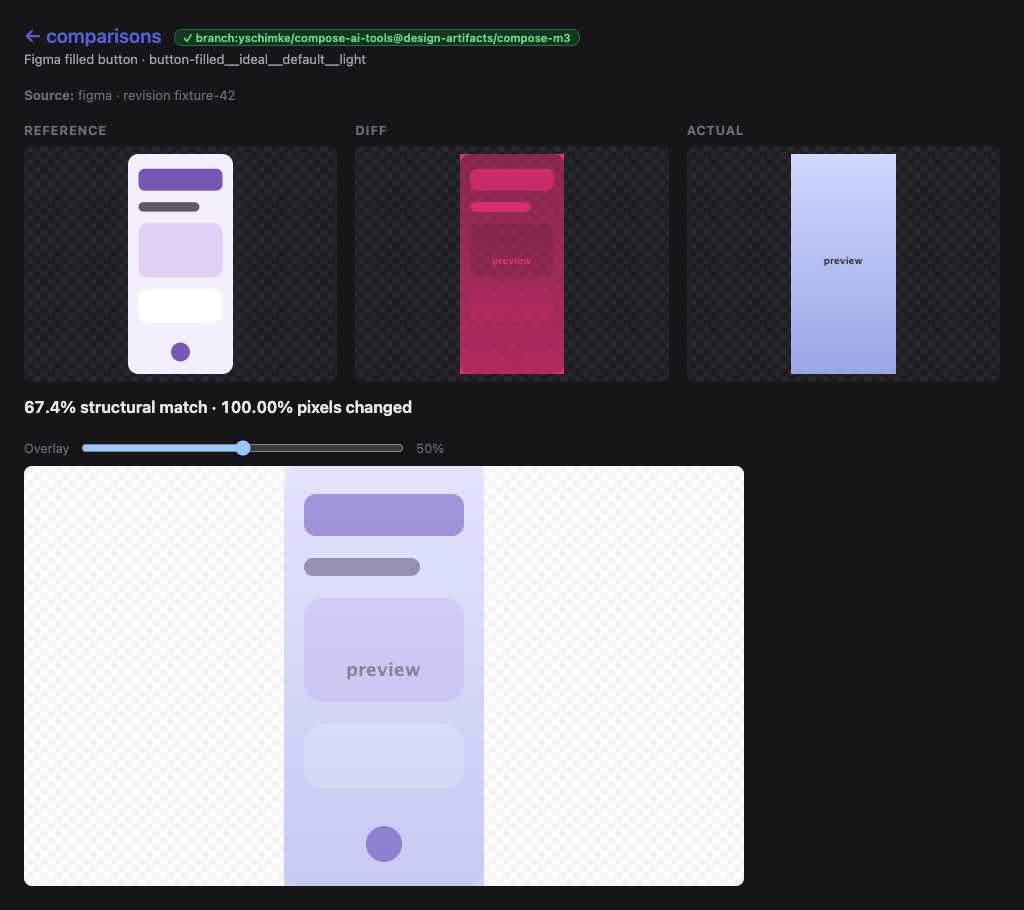
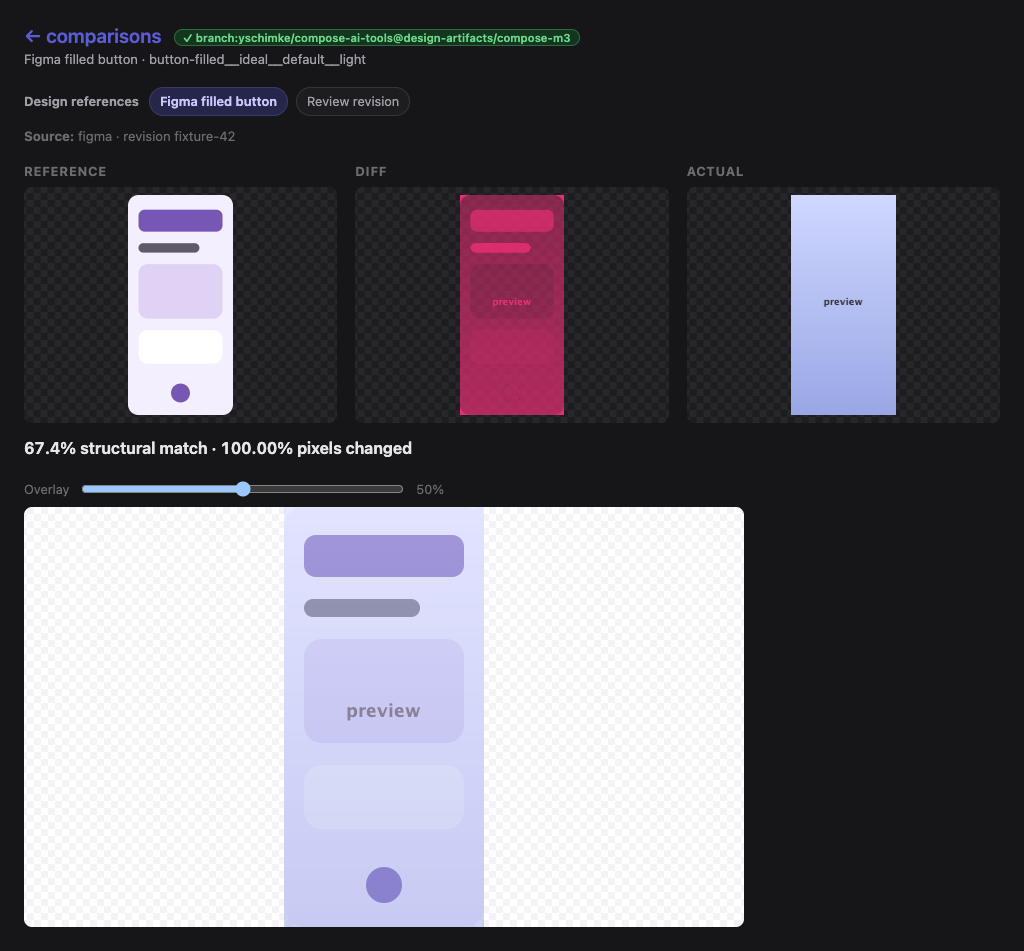
fix(serve): complete design reference support

diff --git a/vscode-extension/preview-harness/fixtures/pages/serve-reference-compare.html b/vscode-extension/preview-harness/fixtures/pages/serve-reference-compare.html
@@ -4,26 +4,31 @@
         <meta charset="utf-8">
         <meta name="viewport" content="width=device-width, initial-scale=1">
         <title>Figma filled button — design comparison</title>
-        <link rel="stylesheet" href="/assets/serve/a27b-6cd3e6715f2b4b40/serve.css">
+        <link rel="stylesheet" href="/assets/serve/a5e8-3fa78bf7c43ab640/serve.css">
         <!-- Apply the sticky Background/Transparent choice before first paint (no checkerboard flash). -->
         <script>try{if(localStorage.getItem("cp-bg")==="off")document.documentElement.classList.add("cp-bg-transparent");}catch(e){}</script>
       </head>
       <body>
         <main class="cp-main">
-        <div id="cp-reference-compare" data-reference="/reference/design-button-filled-light.png?session=compose-m3" data-actual="/render/button-filled__ideal__default__light.png?session=compose-m3">
-  <h1 class="cp-head"><a href="/compare?session=compose-m3">← comparisons</a> <span class="cp-badge cp-badge--trusted" title="producer trust: branch:yschimke/compose-ai-tools@design-artifacts/compose-m3">✓ branch:yschimke/compose-ai-tools@design-artifacts/compose-m3</span></h1>
-  <p class="cp-sub">Figma filled button · button-filled__ideal__default__light</p>
-  <div class="cp-reference-meta"><strong>Source:</strong> figma · revision fixture-42</div>
-  <div class="cp-reference-grid">
-    <section><h2>Reference</h2><div class="cp-compare-shot"><img src="/reference/design-button-filled-light.png?session=compose-m3" alt="Design reference"></div></section>
-    <section><h2>Diff</h2><div class="cp-compare-shot"><canvas class="cp-reference-diff" aria-label="Highlighted pixel difference"></canvas></div></section>
-    <section><h2>Actual</h2><div class="cp-compare-shot"><img src="/render/button-filled__ideal__default__light.png?session=compose-m3" alt="Actual Compose preview"></div></section>
-  </div>
-  <p class="cp-reference-result" role="status">comparing…</p>
-  <label class="cp-overlay-control">Overlay <input class="cp-overlay-range" type="range" min="0" max="100" value="50"><span>50%</span></label>
-  <div class="cp-reference-overlay"><img src="/reference/design-button-filled-light.png?session=compose-m3" alt=""><img src="/render/button-filled__ideal__default__light.png?session=compose-m3" alt=""></div>
-</div>
-<script src="/assets/serve/4ebf-c87fcc6525666985/format-compare.js"></script>
+                <div id="cp-reference-compare" data-reference="/reference/design-button-filled-light.png?session=compose-m3" data-actual="/render/button-filled__ideal__default__light.png?session=compose-m3">
+          <h1 class="cp-head"><a href="/compare?session=compose-m3">← comparisons</a> <span class="cp-badge cp-badge--trusted" title="producer trust: branch:yschimke/compose-ai-tools@design-artifacts/compose-m3">✓ branch:yschimke/compose-ai-tools@design-artifacts/compose-m3</span></h1>
+          <p class="cp-sub">Figma filled button · button-filled__ideal__default__light</p>
+                  <nav class="cp-reference-picker" aria-label="Design references">
+          <span>Design references</span>
+          <a class="cp-reference-choice" href="/compare/button-filled__ideal__default__light?session=compose-m3&amp;reference=design-button-filled-light" aria-current="page">Figma filled button</a>
+<a class="cp-reference-choice" href="/compare/button-filled__ideal__default__light?session=compose-m3&amp;reference=design-button-filled-review">Review revision</a>
+        </nav>
+          <div class="cp-reference-meta"><strong>Source:</strong> figma · revision fixture-42</div>
+          <div class="cp-reference-grid">
+            <section><h2>Reference</h2><div class="cp-compare-shot"><img src="/reference/design-button-filled-light.png?session=compose-m3" alt="Design reference"></div></section>
+            <section><h2>Diff</h2><div class="cp-compare-shot"><canvas class="cp-reference-diff" aria-label="Highlighted pixel difference"></canvas></div></section>
+            <section><h2>Actual</h2><div class="cp-compare-shot"><img src="/render/button-filled__ideal__default__light.png?session=compose-m3" alt="Actual Compose preview"></div></section>
+          </div>
+          <p class="cp-reference-result" role="status">comparing…</p>
+          <label class="cp-overlay-control">Overlay <input class="cp-overlay-range" type="range" min="0" max="100" value="50"><span>50%</span></label>
+          <div class="cp-reference-overlay"><img src="/reference/design-button-filled-light.png?session=compose-m3" alt=""><img src="/render/button-filled__ideal__default__light.png?session=compose-m3" alt=""></div>
+        </div>
+        <script src="/assets/serve/4ebf-c87fcc6525666985/format-compare.js"></script>
         </main>
       </body>
     </html>

diff --git a/cli/src/test/kotlin/ee/schimke/composeai/cli/serve/ServeWebFixtureTest.kt b/cli/src/test/kotlin/ee/schimke/composeai/cli/serve/ServeWebFixtureTest.kt
@@ -682,24 +682,35 @@ class ServeWebFixtureTest {
           else emptyList()
         },
       )
+    val comparisonReferences =
+      listOf(
+        DesignReference(
+          id = "design-button-filled-light",
+          previewId = themedPreviews.first().id,
+          label = "Figma filled button",
+          raster = DesignReferenceRaster("references/design-button-filled-light.png", 320, 160),
+          source =
+            DesignReferenceSource(
+              provider = "figma",
+              uri = "https://www.figma.com/file/example",
+              revision = "fixture-42",
+              attributes = mapOf("nodeId" to "12:34"),
+            ),
+        ),
+        DesignReference(
+          id = "design-button-filled-review",
+          previewId = themedPreviews.first().id,
+          label = "Review revision",
+          raster = DesignReferenceRaster("references/design-button-filled-review.png", 320, 160),
+          source = DesignReferenceSource(provider = "penpot", revision = "fixture-43"),
+        ),
+      )
     val referenceComparison =
       ServeWeb.referenceComparisonPage(
         moduleLabel = "compose-m3",
         preview = themedPreviews.first(),
-        reference =
-          DesignReference(
-            id = "design-button-filled-light",
-            previewId = themedPreviews.first().id,
-            label = "Figma filled button",
-            raster = DesignReferenceRaster("references/design-button-filled-light.png", 320, 160),
-            source =
-              DesignReferenceSource(
-                provider = "figma",
-                uri = "https://www.figma.com/file/example",
-                revision = "fixture-42",
-                attributes = mapOf("nodeId" to "12:34"),
-              ),
-          ),
+        reference = comparisonReferences.first(),
+        references = comparisonReferences,
         token = token,
         sessionId = "compose-m3",
         trust = "branch:yschimke/compose-ai-tools@design-artifacts/compose-m3",
@@ -1162,7 +1173,9 @@ class ServeWebFixtureTest {
       referenceComparison.contains(">Reference</h2>") &&
         referenceComparison.contains(">Diff</h2>") &&
         referenceComparison.contains(">Actual</h2>") &&
-        referenceComparison.contains("Source:</strong> figma · revision fixture-42"),
+        referenceComparison.contains("Source:</strong> figma · revision fixture-42") &&
+        referenceComparison.contains("aria-label=\"Design references\"") &&
+        referenceComparison.contains(">Review revision</a>"),
       "the focused comparison presents the handoff triptych and provenance",
     )
     val referencedState =

diff --git a/cli/src/main/kotlin/ee/schimke/composeai/cli/serve/ServeWeb.kt b/cli/src/main/kotlin/ee/schimke/composeai/cli/serve/ServeWeb.kt
@@ -3063,6 +3063,7 @@ object ServeWeb {
     moduleLabel: String,
     preview: ServePreview,
     reference: DesignReference,
+    references: List<DesignReference> = listOf(reference),
     token: String,
     sessionId: String? = null,
     basePath: String = "",
@@ -3079,6 +3080,35 @@ object ServeWeb {
         ?.takeIf { it.isNotBlank() }
         ?.let { " · revision ${WebEscaping.htmlEscape(it)}" }
         .orEmpty()
+    val referenceChoices = (references + reference).distinctBy { it.id }
+    val referencePicker =
+      if (referenceChoices.size <= 1) ""
+      else {
+        val baseQuery = linkQuery(token, sessionId, basePath, isPublic)
+        val links =
+          referenceChoices.joinToString("\n") { choice ->
+            val query =
+              listOf(
+                  baseQuery.takeIf { it.isNotEmpty() },
+                  "reference=${WebEscaping.urlEncodeSegment(choice.id)}",
+                )
+                .filterNotNull()
+                .joinToString("&")
+            val href =
+              WebEscaping.htmlEscape(
+                "$basePath/compare/${WebEscaping.urlEncodeSegment(preview.id)}?${query}"
+              )
+            val current = if (choice.id == reference.id) " aria-current=\"page\"" else ""
+            "<a class=\"cp-reference-choice\" href=\"$href\"$current>${WebEscaping.htmlEscape(choice.label)}</a>"
+          }
+        """
+        <nav class="cp-reference-picker" aria-label="Design references">
+          <span>Design references</span>
+          $links
+        </nav>
+        """
+          .trimIndent()
+      }
     return document(
       title = "${reference.label} — design comparison",
       unfurlTitle = "$moduleLabel design comparison",
@@ -3089,6 +3119,7 @@ object ServeWeb {
         <div id="cp-reference-compare" data-reference="$raster" data-actual="$actual">
           <h1 class="cp-head"><a href="$basePath/compare$q">← comparisons</a>${trustBadge(trust)}</h1>
           <p class="cp-sub">${WebEscaping.htmlEscape(reference.label)} · ${WebEscaping.htmlEscape(preview.id)}</p>
+          $referencePicker
           <div class="cp-reference-meta"><strong>Source:</strong> $source$revision</div>
           <div class="cp-reference-grid">
             <section><h2>Reference</h2><div class="cp-compare-shot"><img src="$raster" alt="Design reference"></div></section>

diff --git a/cli/src/main/resources/ee/schimke/composeai/cli/serve/assets/serve.css b/cli/src/main/resources/ee/schimke/composeai/cli/serve/assets/serve.css
@@ -376,6 +376,14 @@ html:not(.cp-bg-transparent) .cp-viewer[data-bg-theme="light"] .cp-stage { backg
 #cp-compare[data-format="reference"] .cp-compare-target-head::after { content: "Design reference"; }
 #cp-compare[data-format="reference"] .cp-compare-vector { cursor: pointer; }
 .cp-reference-meta { margin: 12px 0 20px; color: #6b6b70; font-size: 0.82rem; }
+.cp-reference-picker { display: flex; flex-wrap: wrap; align-items: center; gap: 8px;
+  margin: 14px 0 10px; color: #6b6b70; font-size: 0.8rem; }
+.cp-reference-picker > span { margin-right: 2px; font-weight: 650; }
+.cp-reference-choice { padding: 6px 10px; border: 1px solid #d7d7de; border-radius: 999px;
+  background: #fff; color: #50505a; text-decoration: none; }
+.cp-reference-choice:hover { border-color: #aaaadb; color: #3a3a8a; }
+.cp-reference-choice[aria-current="page"] { background: #ececff; border-color: #c5c5f0;
+  color: #3a3a8a; font-weight: 600; }
 .cp-reference-grid { display: grid; grid-template-columns: repeat(3, minmax(0, 1fr)); gap: 18px; }
 .cp-reference-grid section h2 { margin: 0 0 8px; font-size: 0.8rem; color: #6b6b70;
   text-transform: uppercase; letter-spacing: 0.06em; }
@@ -465,6 +473,11 @@ html:not(.cp-bg-transparent) .cp-viewer[data-bg-theme="light"] .cp-stage { backg
   .cp-state-btn { background: #1d1d20; color: #a0a0a8; border-color: #34343a; }
   .cp-state-btn:hover { border-color: #4a4a55; color: #c9c9ff; }
   .cp-state-btn[aria-current="page"] { background: #26264a; border-color: #3a3a6a; color: #c9c9ff; }
+  .cp-reference-picker { color: #a0a0a8; }
+  .cp-reference-choice { background: #1d1d20; border-color: #34343a; color: #a0a0a8; }
+  .cp-reference-choice:hover { border-color: #4a4a55; color: #c9c9ff; }
+  .cp-reference-choice[aria-current="page"] { background: #26264a; border-color: #3a3a6a;
+    color: #c9c9ff; }
   .cp-note { background: #26262b; color: #a0a0a8; }
   .cp-drop { background: #1d1d20; border-color: #34343a; }
   .cp-drop:hover, .cp-drop.cp-drop-over { border-color: #6a6ad0; background: #22222c; }

diff --git a/cli/src/test/kotlin/ee/schimke/composeai/cli/serve/ServeCatalogStoreTest.kt b/cli/src/test/kotlin/ee/schimke/composeai/cli/serve/ServeCatalogStoreTest.kt
@@ -95,7 +95,7 @@ class ServeCatalogStoreTest {
   }
 
   @Test
-  fun `catalog imports only canonical design rasters and keeps source URLs inert`() {
+  fun `catalog imports the published reference manifest and keeps source URLs inert`() {
     val root = tempRoot()
     val referencePng = png()
     val requested = mutableListOf<String>()
@@ -103,8 +103,12 @@ class ServeCatalogStoreTest {
       """
       {"schema":"design-parity-catalog/v1","system":"compose-m3",
        "components":[{"componentId":"Button/Filled","images":[
-         {"path":"images/button.png"}]}],
-       "references":[{
+         {"path":"images/button.png"}]}]}
+      """
+        .trimIndent()
+    val manifest =
+      """
+      {"schema":"compose-preview-references/v1","references":[{
          "id":"button-figma","previewId":"button","label":"Figma button",
          "raster":{"path":"design-references/button.png","width":2,"height":2},
          "source":{"provider":"figma","uri":"https://api.figma.com/v1/files/private"},
@@ -116,6 +120,7 @@ class ServeCatalogStoreTest {
       requested += url
       when {
         url.endsWith("/${ServeCatalogStore.CATALOG_FILE}") -> catalog.encodeToByteArray()
+        url.endsWith("/references/index.json") -> manifest.encodeToByteArray()
         url.endsWith("/design-references/button.png") -> referencePng
         url.endsWith("/images/button.png") -> png()
         else -> null
@@ -136,6 +141,7 @@ class ServeCatalogStoreTest {
     assertEquals("figma", reference.source.provider)
     assertEquals("https://api.figma.com/v1/files/private", reference.source.uri)
     assertContentEquals(referencePng, host.designReferenceRaster("button-figma"))
+    assertTrue(requested.any { it.endsWith("/references/index.json") })
     assertFalse(requested.any { it.startsWith("https://api.figma.com") })
     assertFalse(requested.any { it.endsWith("mocks/button.html") })
   }

diff --git a/cli/src/main/kotlin/ee/schimke/composeai/cli/serve/ServeCatalogStore.kt b/cli/src/main/kotlin/ee/schimke/composeai/cli/serve/ServeCatalogStore.kt
@@ -343,7 +343,8 @@ class ServeCatalogStore(
     // and retain the source fields as provenance. In particular, source.uri and artifact.path are
     // never fetched here: an HTML/Figma reference cannot turn catalog refresh into code execution
     // or an authenticated remote request.
-    writeDesignReferences(catalog.references, base, staging)
+    val manifestReferences = fetchDesignReferences(base)
+    writeDesignReferences(manifestReferences + catalog.references, base, staging)
 
     // The staged catalog is usable — atomically replace the live dir with it. The delete + rename
     // is near-instant (same filesystem), so the window where `dir` is absent is microseconds, not
@@ -1016,6 +1017,27 @@ class ServeCatalogStore(
           DesignReferenceManifest(references = accepted),
         )
       )
+  }
+
+  /**
+   * Read the published provider-neutral manifest. Catalogs originally carried references inline in
+   * `catalog.json`, so [Catalog.references] remains a compatibility fallback at the call site.
+   */
+  private fun fetchDesignReferences(base: String): List<DesignReference> {
+    val manifestBytes =
+      runCatching {
+          fetchCatalogAsset(
+            "$base${ServeDesignReferenceStore.DIRECTORY}/${ServeDesignReferenceStore.INDEX_FILE}"
+          )
+        }
+        .getOrNull() ?: return emptyList()
+    return runCatching {
+        json.decodeFromString(DesignReferenceManifest.serializer(), manifestBytes.decodeToString())
+      }
+      .getOrNull()
+      ?.takeIf { it.schema == DesignReferenceManifest.SCHEMA }
+      ?.references
+      .orEmpty()
   }
 
   /**

diff --git a/cli/src/test/kotlin/ee/schimke/composeai/cli/serve/ServeHttpRoutingTest.kt b/cli/src/test/kotlin/ee/schimke/composeai/cli/serve/ServeHttpRoutingTest.kt
@@ -96,7 +96,15 @@ class ServeHttpRoutingTest {
                     raster =
                       DesignReferenceRaster("references/red-design.png", width = 2, height = 2),
                     source = DesignReferenceSource(provider = "figma", revision = "7"),
-                  )
+                  ),
+                  DesignReference(
+                    id = "red-design-review",
+                    previewId = previewId,
+                    label = "Red design review",
+                    raster =
+                      DesignReferenceRaster("references/red-design.png", width = 2, height = 2),
+                    source = DesignReferenceSource(provider = "penpot", revision = "8"),
+                  ),
                 )
             ),
           )
@@ -929,6 +937,15 @@ class ServeHttpRoutingTest {
     assertTrue(page.contains(">Diff</h2>"), "diff lane: $page")
     assertTrue(page.contains(">Actual</h2>"), "actual lane: $page")
     assertTrue(page.contains("Source:</strong> figma · revision 7"), "provenance: $page")
+    assertTrue(page.contains(">Red design review</a>"), "reference selector: $page")
+    assertTrue(
+      page.contains("reference=red-design-review"),
+      "selector links every reference for the preview: $page",
+    )
+
+    val (reviewCode, reviewPage) = get("/compose-m3/compare/$previewId?reference=red-design-review")
+    assertEquals(200, reviewCode)
+    assertTrue(reviewPage.contains("Source:</strong> penpot · revision 8"), reviewPage)
 
     val request =
       Request.Builder()

diff --git a/vscode-extension/preview-harness/fixtures/pages/serve-viewer-states.html b/vscode-extension/preview-harness/fixtures/pages/serve-viewer-states.html
@@ -4,7 +4,7 @@
         <meta charset="utf-8">
         <meta name="viewport" content="width=device-width, initial-scale=1">
         <title>Checkbox · Checked (light) — compose-preview</title>
-        <link rel="stylesheet" href="/assets/serve/a27b-6cd3e6715f2b4b40/serve.css">
+        <link rel="stylesheet" href="/assets/serve/a5e8-3fa78bf7c43ab640/serve.css">
         <!-- Apply the sticky Background/Transparent choice before first paint (no checkerboard flash). -->
         <script>try{if(localStorage.getItem("cp-bg")==="off")document.documentElement.classList.add("cp-bg-transparent");}catch(e){}</script>
       </head>

diff --git a/vscode-extension/preview-harness/fixtures/pages/serve-viewer-catalog-knobs.html b/vscode-extension/preview-harness/fixtures/pages/serve-viewer-catalog-knobs.html
@@ -4,7 +4,7 @@
         <meta charset="utf-8">
         <meta name="viewport" content="width=device-width, initial-scale=1">
         <title>Button · Filled (light) — compose-preview</title>
-        <link rel="stylesheet" href="/assets/serve/a27b-6cd3e6715f2b4b40/serve.css">
+        <link rel="stylesheet" href="/assets/serve/a5e8-3fa78bf7c43ab640/serve.css">
         <!-- Apply the sticky Background/Transparent choice before first paint (no checkerboard flash). -->
         <script>try{if(localStorage.getItem("cp-bg")==="off")document.documentElement.classList.add("cp-bg-transparent");}catch(e){}</script>
       </head>

diff --git a/vscode-extension/preview-harness/fixtures/pages/serve-viewer-nav-collapsed.html b/vscode-extension/preview-harness/fixtures/pages/serve-viewer-nav-collapsed.html
@@ -4,7 +4,7 @@
         <meta charset="utf-8">
         <meta name="viewport" content="width=device-width, initial-scale=1">
         <title>Button · Filled (light) — compose-preview</title>
-        <link rel="stylesheet" href="/assets/serve/a27b-6cd3e6715f2b4b40/serve.css">
+        <link rel="stylesheet" href="/assets/serve/a5e8-3fa78bf7c43ab640/serve.css">
         <!-- Apply the sticky Background/Transparent choice before first paint (no checkerboard flash). -->
         <script>try{if(localStorage.getItem("cp-bg")==="off")document.documentElement.classList.add("cp-bg-transparent");}catch(e){}</script>
       </head>

diff --git a/vscode-extension/preview-harness/fixtures/pages/serve-viewer-variants.html b/vscode-extension/preview-harness/fixtures/pages/serve-viewer-variants.html
@@ -4,7 +4,7 @@
         <meta charset="utf-8">
         <meta name="viewport" content="width=device-width, initial-scale=1">
         <title>Button · Filled (light) — compose-preview</title>
-        <link rel="stylesheet" href="/assets/serve/a27b-6cd3e6715f2b4b40/serve.css">
+        <link rel="stylesheet" href="/assets/serve/a5e8-3fa78bf7c43ab640/serve.css">
         <!-- Apply the sticky Background/Transparent choice before first paint (no checkerboard flash). -->
         <script>try{if(localStorage.getItem("cp-bg")==="off")document.documentElement.classList.add("cp-bg-transparent");}catch(e){}</script>
       </head>

diff --git a/vscode-extension/preview-harness/fixtures/pages/serve-doc-lottie.html b/vscode-extension/preview-harness/fixtures/pages/serve-doc-lottie.html
@@ -4,7 +4,7 @@
         <meta charset="utf-8">
         <meta name="viewport" content="width=device-width, initial-scale=1">
         <title>loading-spinner.json — compose-preview</title>
-        <link rel="stylesheet" href="/assets/serve/a27b-6cd3e6715f2b4b40/serve.css">
+        <link rel="stylesheet" href="/assets/serve/a5e8-3fa78bf7c43ab640/serve.css">
         <!-- Apply the sticky Background/Transparent choice before first paint (no checkerboard flash). -->
         <script>try{if(localStorage.getItem("cp-bg")==="off")document.documentElement.classList.add("cp-bg-transparent");}catch(e){}</script>
       </head>
